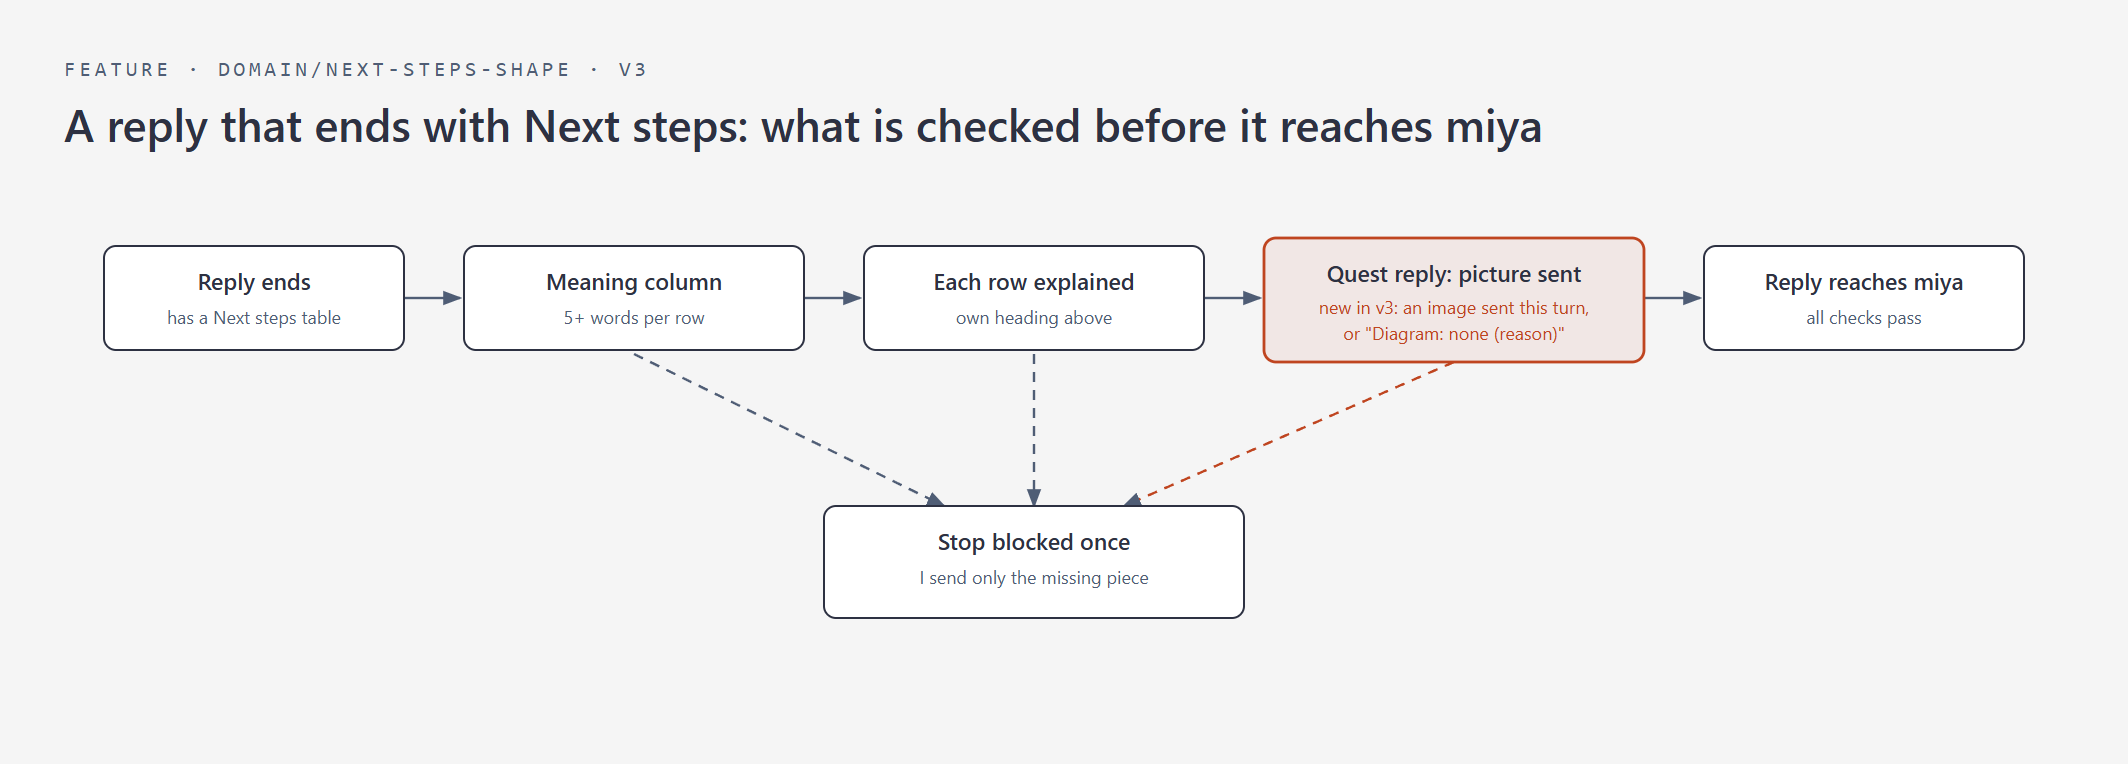
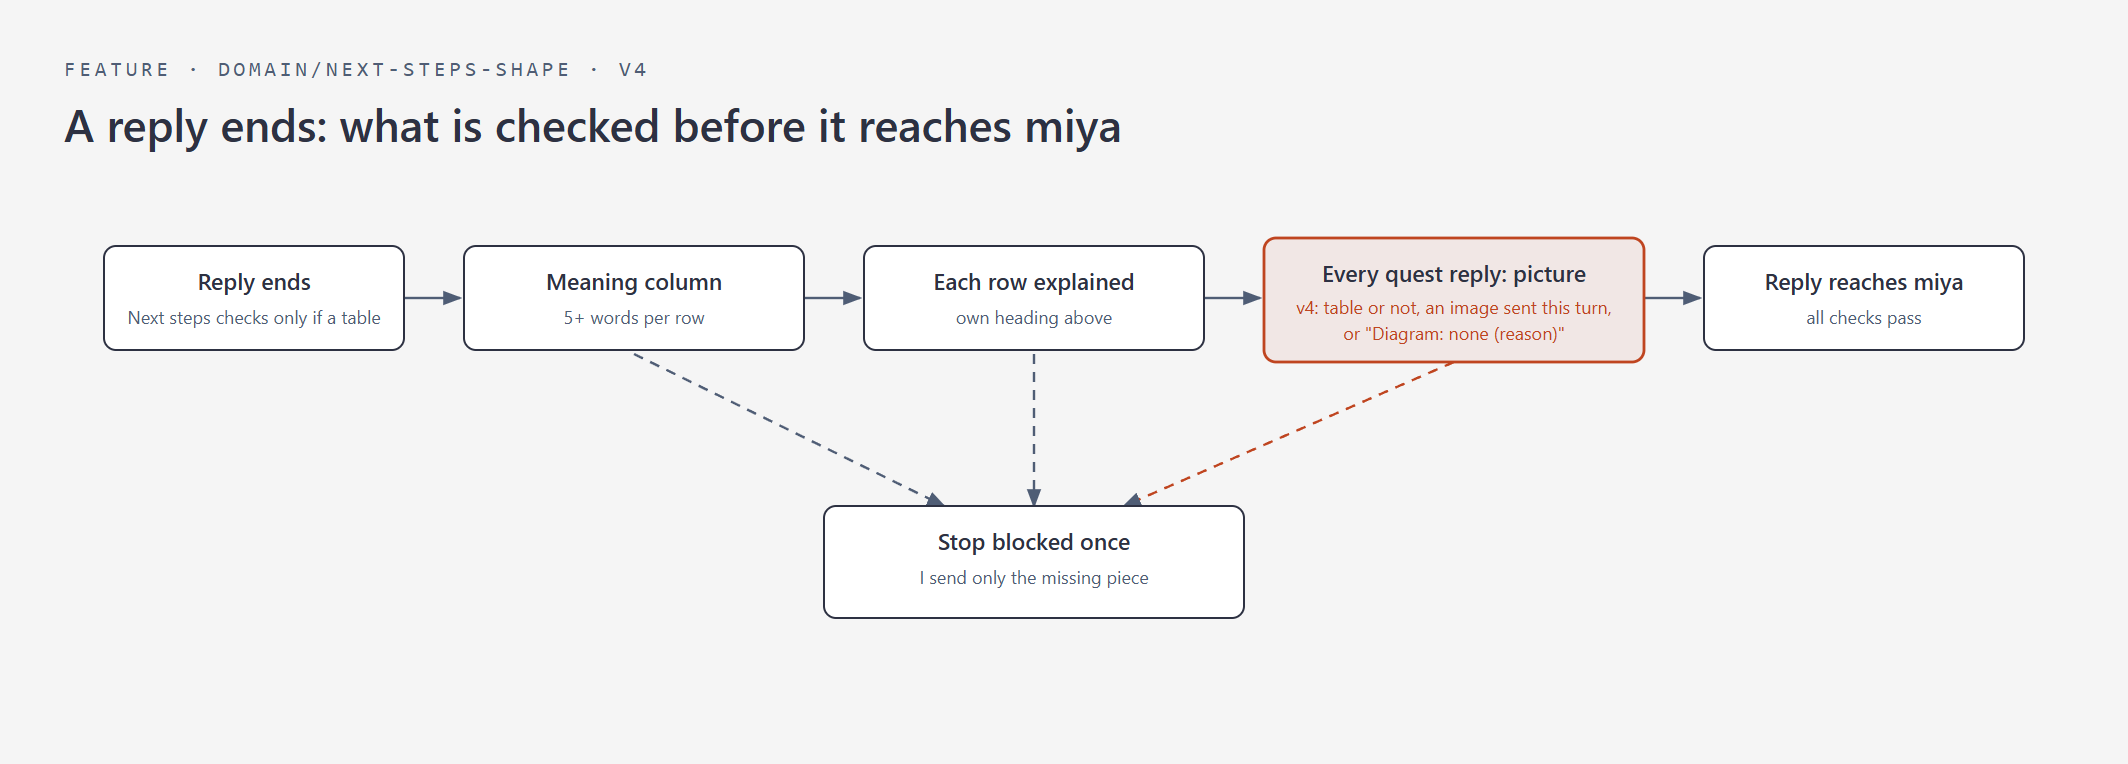
next-steps-shape v4: every quest stop shows the issue picture (287273)

Changed region(s): [[0.093, 0.1505, 0.7444, 0.2107], [0.6203, 0.3312, 0.7444, 0.4215], [0.062, 0.3914, 0.1861, 0.4215]]

diff --git a/domain/next-steps-shape/next-steps-shape.check.hook.js b/domain/next-steps-shape/next-steps-shape.check.hook.js
@@ -9,6 +9,9 @@
 // v3 BLOCK: a quest reply (names an active quest's ticket number) with a Next steps table and no image sent this turn
 //           and no "Diagram: none (<reason>)" line — 2026-10-29 miya on 286655: "I didn't see any story diagram using
 //           your diagram skill to decide. Why do you fail to show this on every quest run?"
+// v4 BLOCK: EVERY quest reply (names an active quest's ticket number), with or without a Next steps table, needs an image sent
+//           this turn or a "Diagram: none (<reason>)" line — 2026-10-30 miya on 287273: "Please ensure our current quest
+//           workflow will always stop with showing the issue using diagram skill."
 // BYPASS: [skip-next-steps-shape: <reason>] · FAIL-OPEN on any error
 // Runs inside the stop-reply-shape bundle (lib/dispatch-hooks.js), not a standalone registration (system-rules Rule 7)
 // Log: domain/next-steps-shape/log.jsonl
@@ -96,7 +99,6 @@ function activeTickets(file) {
 function evaluatePicture(text, turnEvents, tickets) {
   if (!text || BYPASS.test(text)) return { verdict: 'pass', reason: 'no-text-or-bypass' };
   const plain = text.replace(/```[\s\S]*?```/g, '');
-  if (!plain.split(/\r?\n/).some(l => HEADING.test(l))) return { verdict: 'pass', reason: 'no-next-steps' };
   const ticket = (tickets || []).find(n => new RegExp('(^|[^0-9])' + n + '([^0-9]|$)').test(plain));
   if (!ticket) return { verdict: 'pass', reason: 'not-a-quest-reply' };
   if (DIAGRAM_NONE_RE.test(plain)) return { verdict: 'pass', reason: 'diagram-none-stated' };
@@ -132,9 +134,10 @@ if (require.main === module) {
         if (p.verdict !== 'block') { log({ action: 'passed', reason: r.reason, picture: p.reason }); process.exit(0); }
         log({ action: 'blocked', reason: p.reason, detail: p.ticket });
         process.stderr.write([
-          `⛔ next-steps-shape: this ${p.ticket} reply asks miya to decide, but no picture was sent this turn.`,
-          '   Draw the urusan flow with the changed step marked, and the options side by side, with the explain-diagram skill',
-          '   (render: node lib/diagram-render.js), Read the PNG, then send it with SendUserFile (miya 2026-10-29).',
+          `⛔ next-steps-shape: this ${p.ticket} quest reply stops with no picture of the issue sent this turn.`,
+          '   Draw the issue (urusan flow, the value of concern and the changed step marked; options side by side when he decides)',
+          '   with the explain-diagram skill (render: node lib/diagram-render.js), Read the PNG, then send it with SendUserFile',
+          '   (miya 2026-10-29 / 2026-10-30: every quest stop shows the issue as a picture).',
           '   Nothing to draw this round? One line instead: Diagram: none (<reason>).',
           '   ⚡ DELTA ONLY: send just the picture, not the whole reply.',
         ].join('\n') + '\n');

diff --git a/domain/next-steps-shape/diagram.html b/domain/next-steps-shape/diagram.html
@@ -15,8 +15,8 @@ svg { width: 100%; min-width: 900px; display: block; }
 </head>
 <body>
 <div class="frame">
-<p class="eyebrow">Feature · domain/next-steps-shape · v3</p>
-<h1>A reply that ends with Next steps: what is checked before it reaches miya</h1>
+<p class="eyebrow">Feature · domain/next-steps-shape · v4</p>
+<h1>A reply ends: what is checked before it reaches miya</h1>
 <svg viewBox="0 0 1000 260" xmlns="http://www.w3.org/2000/svg" role="img" aria-labelledby="nss-title nss-desc">
 <title id="nss-title">next-steps-shape check flow</title>
 <desc id="nss-desc">Reply ends, the stop-reply-shape bundle runs the check: meaning column, each row explained above, and new in v3 a quest reply needs a picture sent this turn; any miss blocks the stop once.</desc>
@@ -34,7 +34,7 @@ svg { width: 100%; min-width: 900px; display: block; }
 
 <rect x="20" y="30" width="150" height="52" rx="6" fill="#ffffff" stroke="#2d3142"/>
 <text x="95" y="52" fill="#2d3142" font-size="11.5" font-weight="600" text-anchor="middle">Reply ends</text>
-<text x="95" y="69" fill="#4f5d75" font-size="9" text-anchor="middle">has a Next steps table</text>
+<text x="95" y="69" fill="#4f5d75" font-size="9" text-anchor="middle">Next steps checks only if a table</text>
 
 <rect x="200" y="30" width="170" height="52" rx="6" fill="#ffffff" stroke="#2d3142"/>
 <text x="285" y="52" fill="#2d3142" font-size="11.5" font-weight="600" text-anchor="middle">Meaning column</text>
@@ -45,8 +45,8 @@ svg { width: 100%; min-width: 900px; display: block; }
 <text x="485" y="69" fill="#4f5d75" font-size="9" text-anchor="middle">own heading above</text>
 
 <rect x="600" y="26" width="190" height="62" rx="6" fill="rgba(191,69,32,0.08)" stroke="#bf4520" stroke-width="1.4"/>
-<text x="695" y="48" fill="#2d3142" font-size="11.5" font-weight="600" text-anchor="middle">Quest reply: picture sent</text>
-<text x="695" y="64" fill="#bf4520" font-size="9" text-anchor="middle">new in v3: an image sent this turn,</text>
+<text x="695" y="48" fill="#2d3142" font-size="11.5" font-weight="600" text-anchor="middle">Every quest reply: picture</text>
+<text x="695" y="64" fill="#bf4520" font-size="9" text-anchor="middle">v4: table or not, an image sent this turn,</text>
 <text x="695" y="77" fill="#bf4520" font-size="9" text-anchor="middle">or "Diagram: none (reason)"</text>
 
 <rect x="820" y="30" width="160" height="52" rx="6" fill="#ffffff" stroke="#2d3142"/>

diff --git a/domain/next-steps-shape/next-steps-shape.eval.js b/domain/next-steps-shape/next-steps-shape.eval.js
@@ -71,7 +71,11 @@ check('Q5 ticket not an active quest → pass', r.status === 0, 'exit=' + r.stat
 r = runP(quest, [], []);
 check('Q6 no active quests at all → pass', r.status === 0, 'exit=' + r.status);
 r = runP('286655 is on staging now.', [], TK);
-check('Q7 quest mention but no Next steps table → pass', r.status === 0, 'exit=' + r.status);
+check('Q7 v4: quest reply with no Next steps table and no picture → block', r.status === 2 && /286655/.test(r.stderr), 'exit=' + r.status);
+r = runP('287273 Phase 0 done: the portal lists each owner row as one name.', [png], ['287273']);
+check('Q17 v4: quest reply with no Next steps, picture sent → pass', r.status === 0, 'exit=' + r.status + ' ' + r.stderr);
+r = runP('Your yes/no: yes, 287273 is ours.\nDiagram: none (yes/no answer; the issue picture went out last turn)', [], ['287273']);
+check('Q18 v4: short quest answer with a Diagram: none line → pass', r.status === 0, 'exit=' + r.status);
 r = runP(quest.replace(/286655/g, '1286655'), [], TK);
 check('Q8 ticket number only inside a longer number → pass', r.status === 0, 'exit=' + r.status);
 r = runP(quest, [{ kind: 'tool', name: 'SendUserFile', input: '{"files":["C:\\\\x\\\\286655.sql"]}' }], TK);
@@ -82,8 +86,8 @@ r = runP(quest, [], TK, { stop_hook_active: true });
 check('Q11 second stop in the same turn (stop_hook_active) → pass, blocks once only', r.status === 0, 'exit=' + r.status);
 r = runP(quest + '\n[skip-next-steps-shape: miya asked for text only]', [], TK);
 check('Q12 bypass token → pass', r.status === 0, 'exit=' + r.status);
-r = runP('Example:\n```\n## Next steps\n| # | Action | What it means | Your reply |\n|---|---|---|---|\n| 1 | 286655 | a b c d e f | x |\n```\n286655 noted.', [], TK);
-check('Q13 Next steps only inside a code fence → pass', r.status === 0, 'exit=' + r.status);
+r = runP('Example:\n```\n## Next steps\n| # | Action | What it means | Your reply |\n|---|---|---|---|\n| 1 | 286655 | a b c d e f | x |\n```\nNoted.', [], TK);
+check('Q13 ticket named only inside a code fence → pass', r.status === 0, 'exit=' + r.status);
 r = runP('```\nDiagram: none (quoted)\n```\n' + quest, [], TK);
 check('Q14 Diagram: none only inside a code fence → still block', r.status === 2, 'exit=' + r.status);
 r = runP(quest, [{ kind: 'tool', name: 'SendUserFile', input: '{"files":["C:\\\\x\\\\286655-flow.JPG"]}' }], TK);

diff --git a/.claude/skills/quest/SKILL.md b/.claude/skills/quest/SKILL.md
@@ -346,7 +346,7 @@ Rules: English, like miya's own notes · greet the LIVE assignee (re-sync Redmin
 
 ### 🗣 Plain first — DEFAULT for every quest briefing and explanation (added 2026-09-29 per みや, #282061)
 
-**Story picture FIRST, every hand-back (2026-10-29 per みや, #286988: "use diagram skill to explain, always. Like tell me like a story.")**: `→ Skill: explain-diagram`, a rendered picture, looked at, sent. Two rows. Top row, "What happened": (1) where the permohonan is now (tugasan + login) → (2) what went wrong there (the value of concern highlighted) → (3) where it must go. Bottom row, "What we do": (4) our action, named as alter / init-alter / patch / code fix, with one line on why not the others, in the accent colour → (5) what happens after. One sentence, then the details. **Banned**: a Phase 0 or Rubric hand-back that opens with tables or numbered sections and no picture.
+**Story picture FIRST, every quest stop (2026-10-29 per みや, #286988: "use diagram skill to explain, always. Like tell me like a story."; every stop, not only a hand-back, 2026-10-30 per みや, 287273: "always stop with showing the issue using diagram skill")**: every reply that ends a quest turn sends the issue picture this turn, or says `Diagram: none (<reason>)` in one line (a yes/no answer, a commit-only step); enforced by `domain/next-steps-shape` v4. `→ Skill: explain-diagram`, a rendered picture, looked at, sent. Two rows. Top row, "What happened": (1) where the permohonan is now (tugasan + login) → (2) what went wrong there (the value of concern highlighted) → (3) where it must go. Bottom row, "What we do": (4) our action, named as alter / init-alter / patch / code fix, with one line on why not the others, in the accent colour → (5) what happens after. One sentence, then the details. **Banned**: a Phase 0 or Rubric hand-back that opens with tables or numbered sections and no picture.
 Open with 1-2 plain sentences that give the cause in everyday words, before any diagram, table, class name or file:line. Example: *"The duplicate happens because of a logic error. The system only looks for an unpaid bill, but the bill was already paid."* THEN the details: a simple flow diagram, then a short Q → A table, and the technical site LAST on its own line. **Banned**: opening with a trace, a table or code · mixing the plain cause and the technical path in one paragraph.
 
 ### 📋 Everything on this ticket — MANDATORY after Rubric and in every brief (added 2026-09-29 per みや, #282061)
@@ -378,7 +378,7 @@ Before emitting ▶ YOUR MOVE, run this gate and emit it as the FIRST lines of t
 
 | 🩹 **PROD patch hand-back → 3 pieces in ONE reply (added 2026-09-28 per みや, #281638)** | Any hand-back that routes a PROD patch to infra carries, in order: (a) the **proving SELECT** under every DB fact (unqualified, no JOIN) · (b) the **Stage-Match block** (5 steps, or `⏭ N/A — reference table`) · (c) the **infra handoff** (`feedback_prod_patch_infra_handoff` shape) as the LAST block. A Flowable admin step names the **on-screen label** (e.g. the blue id next to "Process Instance" + its "Process definition" line), never an inferred name. Enforced: `patch-close-shape` CHECK C (block) · `db-claim-proof` · `patch-script-gate` CHECK 2. **Why**: #281638 shipped without all three and each needed a separate correction round. |
 | 🖼 **Fix photo → ONLY when みや asks, and only a REAL after-fix screen (rewritten 2026-10-04 per みや, #282924)** | No fix photo by default. みや's own test video or screenshot is the evidence. Make one only when he asks (fix photo / red box), and then mark a REAL after-fix screen: a frame of his test video or a screenshot he gave. Tool: `python domain/fix-photo/mark.py --src "<real after-fix image>" --dst "<...>\2. Fix\<n>. <short name>.png" --box "x0,y0,x1,y1" --label "x,y=<label>"`, then open it and look. Emit `FIX-PHOTO: <full path> ✓`. File names in his Task folder follow his short style (`1. Test tick lebih satu hakmilik.mp4`): number, then what it is, no urusan prefix, no long sentence. **Banned**: drawing a box on BA's BEFORE screenshot and naming it as the fix (it reads as a fake screenshot) · creating any image he did not ask for. Enforced by `domain/fix-photo/` v2 (fires only on his ask). |
-| 🧭 **Picture before he decides (added 2026-10-29 per みや, 286655)** | Every hand-back that asks him to decide (any Next steps table: a choice, a go-ahead, a test plan), and every post-Rubric and `/quest resume` reply, sends ONE picture this turn: `explain-diagram` skill §2b (urusan lanes, the changed step and the value of concern marked) plus the options side by side, rendered by `node lib/diagram-render.js`, Read, then sent with `SendUserFile`. A round with nothing new to draw says `Diagram: none (<reason>)`. SQL or code fences do NOT count as the picture. Enforced: `domain/next-steps-shape` v3 (blocks a quest reply with Next steps and no image sent). **Why**: 286655 resume ran Rubric confirm + Apply and handed back two choices in words and SQL only; みや: *"I didn't see any story diagram using your diagram skill to decide."* |
+| 🧭 **Picture before he decides (added 2026-10-29 per みや, 286655)** | Every hand-back that asks him to decide (any Next steps table: a choice, a go-ahead, a test plan), and every post-Rubric and `/quest resume` reply, sends ONE picture this turn: `explain-diagram` skill §2b (urusan lanes, the changed step and the value of concern marked) plus the options side by side, rendered by `node lib/diagram-render.js`, Read, then sent with `SendUserFile`. A round with nothing new to draw says `Diagram: none (<reason>)`. SQL or code fences do NOT count as the picture. Enforced: `domain/next-steps-shape` v4 (blocks any quest reply, Next steps or not, with no image sent and no `Diagram: none (<reason>)` line; v3 covered only replies with Next steps). **Why**: 286655 resume ran Rubric confirm + Apply and handed back two choices in words and SQL only; みや: *"I didn't see any story diagram using your diagram skill to decide."* |
 | 📸 **His test screenshots → save at once (added 2026-10-23 per みや, #246964)** | "test result(s)" · "here test scenario" · "here screenshot of test" · "please save this" with images = save each into the cycle folder (`2. Fix` or the `N. Rework` root) as `<n>. <what it shows>.png`, red box via `domain/fix-photo/mark.py` where it helps, open each, one `FIX-PHOTO: <full path> ✓` line per photo, then prepare the Redmine handover with them. Enforced by `domain/fix-photo` v3. |
 | 🧩 **Template ticket → CC-PREFLIGHT (added 2026-08-19 per みや, "ralat sbb maklumat tak lengkap")** | For any ticket whose fix touches a template `.docx` / generated document: BEFORE the hand-back, run `node domain/template-cc-preflight/preflight.js --template "<template path>"`, check each mapped tag's data on the TEST permohonan (DB), and emit `CC-PREFLIGHT: <n> tags · <m> unmapped · data-gaps: <…|none>` + a patch proposal per patchable gap. Enforced advisory by `domain/template-cc-preflight/` (Stop; bypass `[skip-cc-preflight: <reason>]`). |
 | 📄 **Document ticket → DOC-SIM line (added 2026-10-06 per みや, #244600)** | For a ticket marked `doc-sim applies` at Phase 0: BEFORE the hand-back, the reply carries the latest `DOC-SIM: <permohonan> · <template> · fill … · <n> hidden errors · compare …` line from `node domain/doc-sim/doc-sim.js`. Its per-tag rows are the data check of the CC-PREFLIGHT row above, and its `__filled.docx` is the file RENDER-VERIFY reads. It never replaces みや's local test. A Java fix not yet deployed locally: run with `--java-src <changed files>`; say `doc-sim: not run, fix not in the local WAR` only when the fix needs classes the WAR lacks and no adapted copy exists. A flow over several tugasan: `chain --steps <a_tgsn>:<action>,...` (or `--warm` when a step edits the file), each step with its own Selesai action, never CREATE for all. |
@@ -835,3 +835,5 @@ ode domain/doc-sim/doc-sim.eval.js.*
 *2026-10-29 — step 6f per みや ("add into adhoc step/workflow under quest workflow ... ending with a suggestion to open a ticket, to request an alter ticket, or what depending on the findings"): the Code-fix route line is worded with the adhoc route names (PATCH · PATCH + CODE-FIX · CODE-FIX); the full route table lives in the adhoc-save skill, section "Adhoc route". Spec-preservation: the 6f three-row table, its banned list and the PRBB example are unchanged; additive.*
 
 - 2026-10-29 (from the 2026-10-20 assessment file, in git history; recovered 2026-10-29): The Workflow tool refuses a script with CRLF line endings ("contains control characters"); .claude/workflows/*.js need LF.
+
+*2026-10-30 — every quest stop shows the issue picture, per みや on 287273 ("Please ensure our current quest workflow will always stop with showing the issue using diagram skill."): Plain first's Story picture line now says every quest stop, not only a hand-back; the Pre-emit gate row 🧭 points at next-steps-shape v4, which drops the Next steps condition (eval 29/29). Spec kept: the two-row story shape, the waiver line, the picture rules. Changed and named: a quest reply with no Next steps now needs the picture or the waiver.*

diff --git a/domain/next-steps-shape/README.md b/domain/next-steps-shape/README.md
@@ -6,12 +6,23 @@ goal_signal: the reply's Next steps table has a What it means column with a 5+ w
 retention: rotate monthly
 footprint: per-turn: joins the stop-reply-shape bundle, 1 node child, ~30 MB, <200 ms
 
-diagram: domain/next-steps-shape/diagram.png (v3 step marked)
+diagram: domain/next-steps-shape/diagram.png (v4 step marked)
 self_audit: the eval replays every fixture (`node domain/next-steps-shape/next-steps-shape.eval.js`); each fire writes passed/blocked with the reason and, from v3, the picture verdict to log.jsonl
 
 **What fires when**: Stop — a reply ends with a Next steps table
 
 **v3 (2026-10-29, per みや on 286655: "I didn't see any story diagram using your diagram skill to decide. Why do you fail to show this on every quest run?")**: a quest reply (it names the number of a `status=active` block in `quest/active.txt`) that ends with Next steps BLOCKS once unless this turn sent an image with `SendUserFile` or the reply carries `Diagram: none (<reason>)` outside a code fence. Turn events come from `lib/adhoc-brief-first.js` (shared parser, same as the adhoc picture check). Paired skill text: quest SKILL.md Pre-emit gate row 🧭. Eval 27/27.
+
+**v4 (2026-10-30, per みや on 287273: "Please ensure our current quest workflow will always stop with showing the issue using diagram skill.")**: the Next steps condition is dropped from the picture check. EVERY quest reply (names an active `qa=QA-<n>` number outside a code fence) blocks once unless this turn sent an image or the reply carries `Diagram: none (<reason>)`. Spec kept: waiver line, once-only block, fail-open, image-only, ticket outside fences, bypass. Changed and named: Q7 (quest mention, no Next steps) now blocks; Q13 now pins "ticket only inside a fence → pass". Eval 29/29 (Q17, Q18 added).
+
+| # | Adversarial scenario (Rule 12, v4 additions) | Verdict |
+|---|---|---|
+| 23 | quest reply with no Next steps, no picture (the v4 case) | fixture Q7 |
+| 24 | quest reply with no Next steps, picture sent | fixture Q17 |
+| 25 | short yes/no quest answer | fixture Q18: waiver line clears it |
+| 26 | a reply naming several active tickets (board, briefing) | accepted-risk: one waiver line clears it; a board reply is not a quest stop |
+| 27 | the picture went out earlier in the same turn, before a long tool run | handled: turn events cover the whole turn |
+| 28 | a commit-only or deploy-only stop | accepted-risk: waiver line names it; his ask was "always" |
 
 | # | Adversarial scenario (Rule 12) | Verdict |
 |---|---|---|
